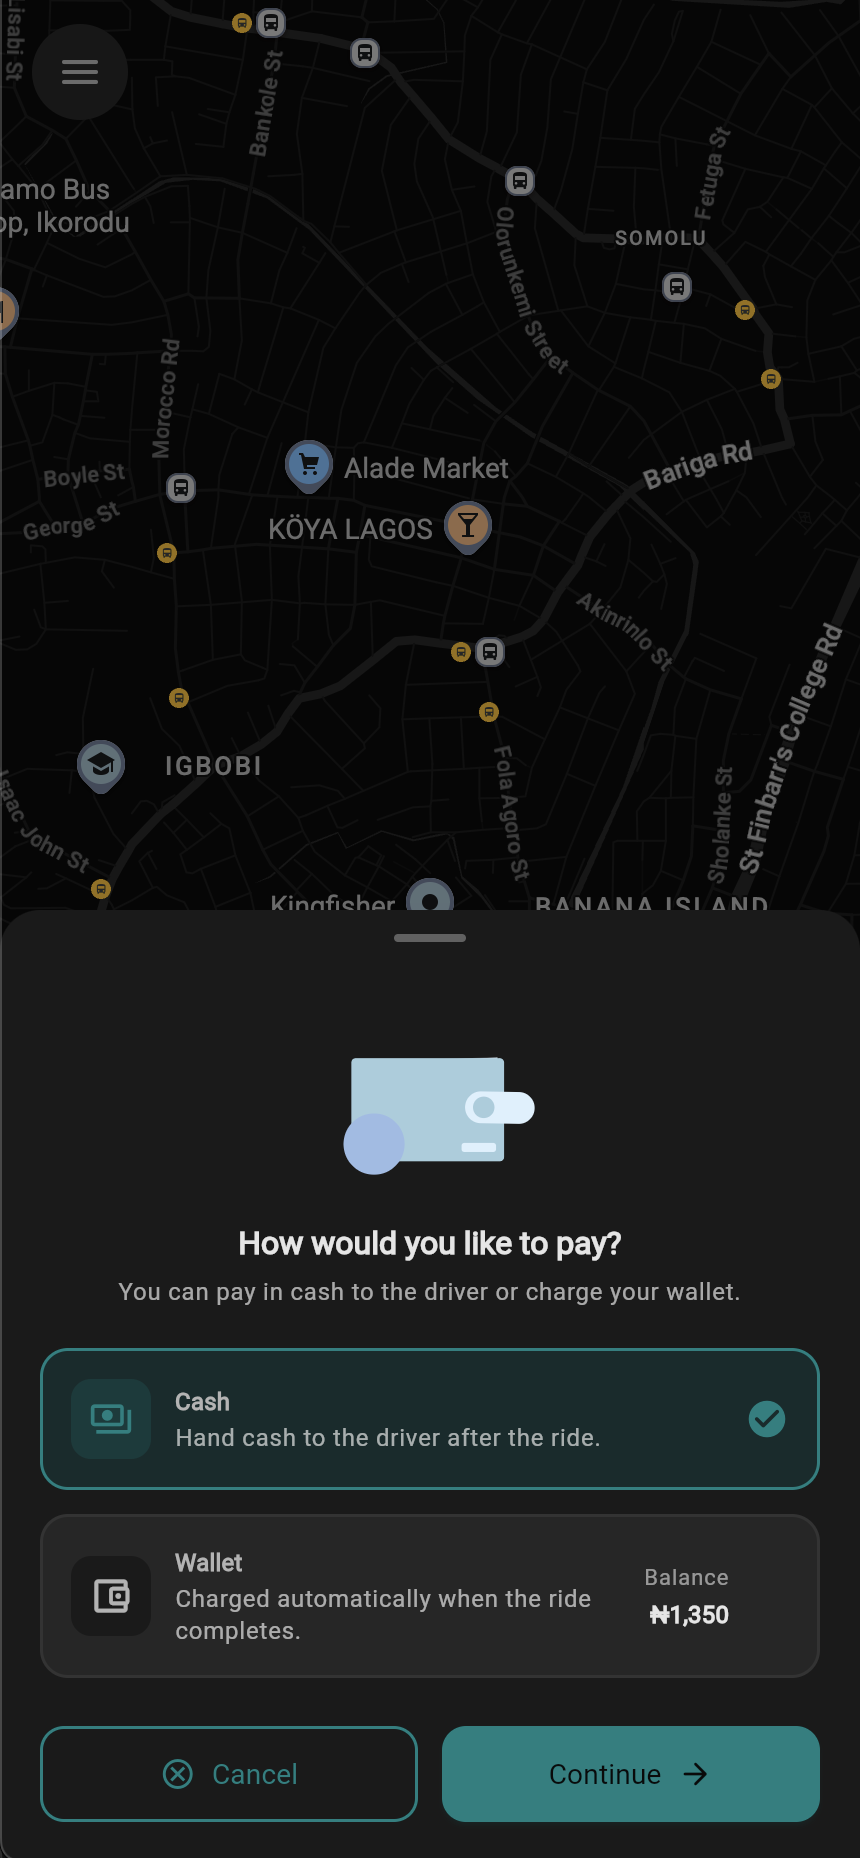
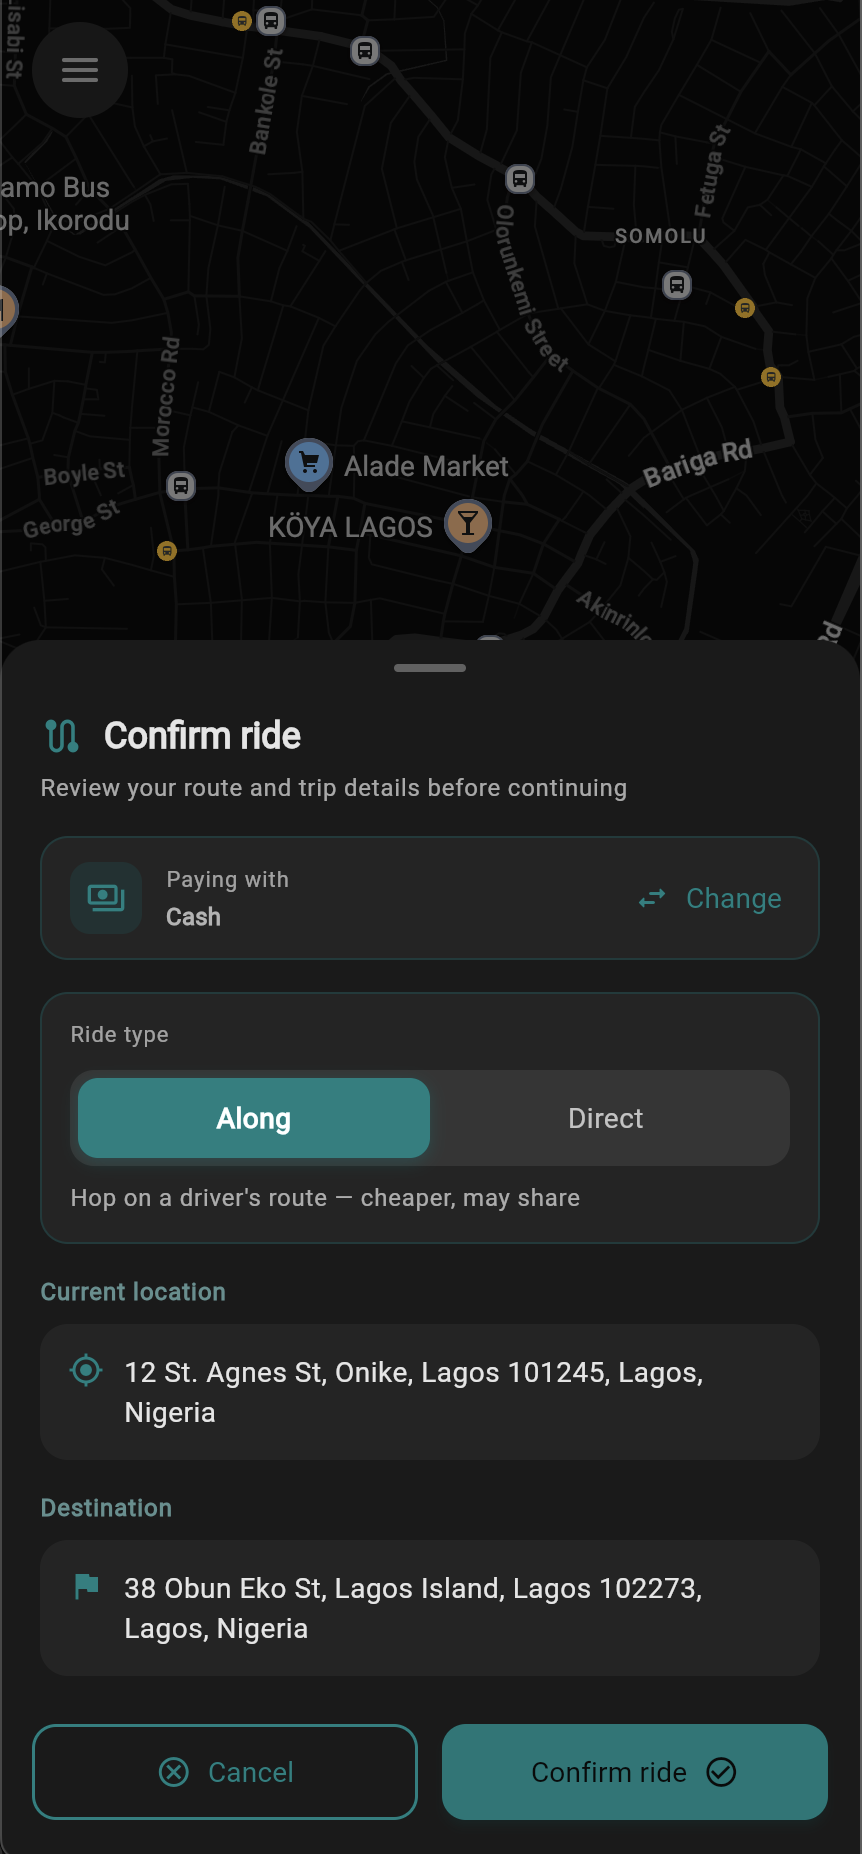
feat(pitch): honest competitive matrix + designed personas + dot-rail nav
Competitive matrix — rebuilt for truth
- Old matrix overstated TagRides differentiation by mis-grading
  competitors. Fixed every cell against current Lagos reality:
    • Uber / Bolt now correctly read 'high' on Comfort + Safety and
      gain instant-matching credit; lose the (vague) "Inclusive" row.
    • InDrive now correctly reads 'yes' on Instant matching and 'high'
      on Comfort — they earn it.
    • Shuttlers now reads 'yes' on Drivers-heading-your-way (their
      scheduled routes literally satisfy that capability) and 'high'
      on Comfort.
    • Danfo keeps the share + route + negotiable trio honestly.
- Rebuilt the 6 rows around capabilities that are actually falsifiable:
    1. Pay only for your leg of the trip
    2. Drivers already heading your destination
    3. Negotiable fare
    4. Instant in-app matching
    5. Comfort
    6. Verified driver + trip log
- The story now sells itself: TagRides 6/6, every competitor ≤4/6.
- Differentiation row expanded from 3 → 4 quotes (Uber/Bolt, InDrive,
  Shuttlers, Danfo) so each named competitor gets a direct rebuttal.

Persona illustrations
- New PersonaIllustration component renders Fatima + Emeka as designed
  SVG composites — head + shoulders + role hint (briefcase + Lagos
  skyline for Fatima; steering wheel + windshield + dashboard for
  Emeka). Honest signal: 'persona archetype', not fake real customer.
- Replaces the gradient img fallback inside the existing diamond crops
[…]

diff --git a/src/components/pitch/PersonaIllustration.jsx b/src/components/pitch/PersonaIllustration.jsx
@@ -1,0 +1,241 @@
+'use client';
+
+// PersonaIllustration — designed SVG illustrations for the Problem
+// section. Two variants: 'rider' (Fatima) and 'driver' (Emeka). These
+// are intentionally abstract: composites, not photographs. Reads as
+// "persona archetype" without pretending to be a real customer.
+//
+// Each illustration packs:
+//   • a stylized portrait silhouette (head + shoulders)
+//   • one role-specific visual hint (briefcase for rider, steering for driver)
+//   • a Lagos-evocative backdrop (curving line suggesting horizon + road)
+//   • a brand-tinted gradient (primary teal for rider, accent amber for driver)
+//
+// Designed to live inside the Problem section's diamond-cropped frames
+// (rotated 45° container, illustration -45° to upright). The viewBox is
+// square (100×100) so the rotation math stays clean.
+
+export function PersonaIllustration({ kind = 'rider', className }) {
+  if (kind === 'driver') return <DriverIllustration className={className} />;
+  return <RiderIllustration className={className} />;
+}
+
+function RiderIllustration({ className }) {
+  return (
+    <svg viewBox="0 0 100 100" className={className} aria-hidden="true">
+      <defs>
+        <linearGradient id="rider-bg" x1="0" y1="0" x2="1" y2="1">
+          <stop offset="0%"   stopColor="#0E5C5C" />
+          <stop offset="60%"  stopColor="#0A3F3F" />
+          <stop offset="100%" stopColor="#062828" />
+        </linearGradient>
+        <linearGradient id="rider-figure" x1="0.5" y1="0" x2="0.5" y2="1">
+          <stop offset="0%"   stopColor="#1A1A1A" />
+          <stop offset="100%" stopColor="#0A0A0A" />
+        </linearGradient>
+        <linearGradient id="rider-accent" x1="0" y1="0" x2="0" y2="1">
+          <stop offset="0%"   stopColor="rgba(245,158,11,0.0)" />
+          <stop offset="100%" stopColor="rgba(245,158,11,0.6)" />
+        </linearGradient>
+      </defs>
+
+      {/* Backdrop */}
+      <rect width="100" height="100" fill="url(#rider-bg)" />
+
+      {/* Lagos horizon — three building silhouettes at the back */}
+      <g opacity="0.35">
+        <rect x="8"  y="42" width="14" height="36" fill="#062828" />
+        <rect x="24" y="34" width="10" height="44" fill="#062828" />
+        <rect x="36" y="48" width="8"  height="30" fill="#062828" />
+        <rect x="60" y="38" width="12" height="40" fill="#062828" />
+        <rect x="74" y="46" width="10" height="32" fill="#062828" />
+        <rect x="86" y="40" width="8"  height="38" fill="#062828" />
+        {/* window dots */}
+        <g fill="rgba(245,158,11,0.5)">
+          <rect x="12" y="50" width="1.6" height="1.6" />
+          <rect x="16" y="50" width="1.6" height="1.6" />
+          <rect x="12" y="58" width="1.6" height="1.6" />
+          <rect x="16" y="58" width="1.6" height="1.6" />
+          <rect x="26" y="44" width="1.6" height="1.6" />
+          <rect x="30" y="44" width="1.6" height="1.6" />
+          <rect x="26" y="56" width="1.6" height="1.6" />
+          <rect x="63" y="50" width="1.6" height="1.6" />
+          <rect x="67" y="50" width="1.6" height="1.6" />
+          <rect x="63" y="60" width="1.6" height="1.6" />
+          <rect x="77" y="52" width="1.6" height="1.6" />
+          <rect x="89" y="48" width="1.6" height="1.6" />
+        </g>
+      </g>
+
+      {/* Soft amber sunset hint along the horizon */}
+      <rect x="0" y="55" width="100" height="30" fill="url(#rider-accent)" opacity="0.5" />
+
+      {/* Figure — head + shoulders. Slight 3/4 turn. */}
+      <g>
+        {/* Shoulders / suit blazer */}
+        <path
+          d="M 18 100 L 18 86 Q 22 76 32 73 L 50 70 L 68 73 Q 78 76 82 86 L 82 100 Z"
+          fill="url(#rider-figure)"
+        />
+        {/* Suit lapel highlight */}
+        <path
+          d="M 42 100 L 47 78 L 50 74 L 53 78 L 58 100 Z"
+          fill="#1F1F1F"
+          opacity="0.8"
+        />
+        {/* Collar */}
+        <path
+          d="M 44 100 L 48 80 L 50 78 L 52 80 L 56 100 Z"
+          fill="#E5E5E5"
+          opacity="0.85"
+        />
+        {/* Neck */}
+        <rect x="46" y="68" width="8" height="6" fill="#3B2A20" />
+        {/* Head silhouette — slight oval, framed by hair */}
+        <ellipse cx="50" cy="58" rx="11" ry="12.5" fill="#3B2A20" />
+        {/* Hair — wrapped/styled around head, suggests cultural framing */}
+        <path
+          d="M 38 58 Q 36 46 44 42 Q 50 38 56 42 Q 64 46 62 58 Q 64 55 64 50 Q 62 38 50 36 Q 38 38 36 50 Q 36 55 38 58 Z"
+          fill="#1A1410"
+        />
+        {/* Subtle face plane shadow */}
+        <path
+          d="M 50 58 Q 45 58 43 64 Q 45 68 50 68 Z"
+          fill="#2D1F18"
+          opacity="0.6"
+        />
+        {/* Earring glint */}
+        <circle cx="59" cy="60" r="0.8" fill="#F0B429" />
+      </g>
+
+      {/* Phone in hand — minimal silhouette in lower-right */}
+      <g transform="translate(70, 88) rotate(-10)">
+        <rect x="0" y="0" width="6" height="9" rx="1" fill="#1A1A1A" stroke="#008080" strokeWidth="0.4" />
+        <rect x="1" y="1.4" width="4" height="6" fill="#008080" opacity="0.5" />
+      </g>
+
+      {/* Corner accent — diamond glyph echoing deck language */}
+      <rect x="6" y="6" width="3" height="3" fill="#F59E0B" transform="rotate(45 7.5 7.5)" opacity="0.8" />
+    </svg>
+  );
+}
+
+function DriverIllustration({ className }) {
+  return (
+    <svg viewBox="0 0 100 100" className={className} aria-hidden="true">
+      <defs>
+        <linearGradient id="driver-bg" x1="0" y1="0" x2="1" y2="1">
+          <stop offset="0%"   stopColor="#5C3A0A" />
+          <stop offset="60%"  stopColor="#3F2806" />
+          <stop offset="100%" stopColor="#281904" />
+        </linearGradient>
+        <linearGradient id="driver-figure" x1="0.5" y1="0" x2="0.5" y2="1">
+          <stop offset="0%"   stopColor="#1A1A1A" />
+          <stop offset="100%" stopColor="#0A0A0A" />
+        </linearGradient>
+        <linearGradient id="driver-windshield" x1="0" y1="0" x2="0" y2="1">
+          <stop offset="0%"   stopColor="rgba(0,128,128,0.45)" />
+          <stop offset="100%" stopColor="rgba(0,128,128,0.05)" />
+        </linearGradient>
+      </defs>
+
+      {/* Backdrop */}
+      <rect width="100" height="100" fill="url(#driver-bg)" />
+
+      {/* Windshield curve — top edge, suggesting driver's view */}
+      <path
+        d="M 0 24 Q 50 12 100 24 L 100 0 L 0 0 Z"
+        fill="#0A0A0A"
+        opacity="0.5"
+      />
+      <path
+        d="M 0 24 Q 50 12 100 24 L 100 60 Q 50 50 0 60 Z"
+        fill="url(#driver-windshield)"
+      />
+
+      {/* Distant road dots — pinpoints of light through windshield */}
+      <g fill="#F0B429" opacity="0.7">
+        <circle cx="22" cy="32" r="0.8" />
+        <circle cx="34" cy="28" r="0.6" />
+        <circle cx="46" cy="26" r="0.7" />
+        <circle cx="58" cy="27" r="0.5" />
+        <circle cx="68" cy="30" r="0.7" />
+        <circle cx="78" cy="33" r="0.6" />
+      </g>
+
+      {/* Dashboard line */}
+      <path
+        d="M 0 62 Q 50 55 100 62 L 100 70 Q 50 64 0 70 Z"
+        fill="#1A1A1A"
+      />
+
+      {/* Steering wheel — curved arc in lower-front */}
+      <g transform="translate(50, 88)">
+        <path
+          d="M -22 0 Q -22 -14 0 -14 Q 22 -14 22 0"
+          fill="none"
+          stroke="#0A0A0A"
+          strokeWidth="3.5"
+        />
+        <path
+          d="M -22 0 Q -22 -14 0 -14 Q 22 -14 22 0"
+          fill="none"
+          stroke="#262626"
+          strokeWidth="1.6"
+        />
+        {/* Center boss */}
+        <ellipse cx="0" cy="-5" rx="3.5" ry="2.4" fill="#262626" />
+      </g>
+
+      {/* Figure — head + shoulders, framed by windshield */}
+      <g>
+        {/* Shoulders — t-shirt collar */}
+        <path
+          d="M 22 100 L 22 76 Q 28 68 38 66 L 50 64 L 62 66 Q 72 68 78 76 L 78 100 Z"
+          fill="url(#driver-figure)"
+        />
+        {/* T-shirt collar V */}
+        <path
+          d="M 45 100 L 48 72 L 50 70 L 52 72 L 55 100 Z"
+          fill="#262626"
+          opacity="0.7"
+        />
+        {/* Seatbelt strap */}
+        <path
+          d="M 30 100 L 60 65 L 64 66 L 34 100 Z"
+          fill="#3F2806"
+          opacity="0.9"
+        />
+        <path
+          d="M 30 100 L 60 65 L 64 66 L 34 100 Z"
+          fill="none"
+          stroke="#F0B429"
+          strokeWidth="0.5"
+          opacity="0.6"
+        />
+        {/* Neck */}
+        <rect x="46" y="60" width="8" height="6" fill="#3B2A20" />
+        {/* Head */}
+        <ellipse cx="50" cy="50" rx="11" ry="12.5" fill="#3B2A20" />
+        {/* Short hair / cap line */}
+        <path
+          d="M 39 50 Q 39 38 50 36 Q 61 38 61 50 Q 61 44 56 40 Q 50 38 44 40 Q 39 44 39 50 Z"
+          fill="#1A1410"
+        />
+        {/* Face plane shadow */}
+        <path
+          d="M 50 50 Q 45 50 43 56 Q 45 60 50 60 Z"
+          fill="#2D1F18"
+          opacity="0.5"
+        />
+        {/* Eye glint — sunglasses */}
+        <ellipse cx="45" cy="48" rx="2.2" ry="1.4" fill="#0A0A0A" />
+        <ellipse cx="55" cy="48" rx="2.2" ry="1.4" fill="#0A0A0A" />
+        <rect x="47" y="47.5" width="1.5" height="0.8" fill="#0A0A0A" />
+      </g>
+
+      {/* Corner accent */}
+      <rect x="91" y="6" width="3" height="3" fill="#008080" transform="rotate(45 92.5 7.5)" opacity="0.8" />
+    </svg>
+  );
+}

diff --git a/src/components/pitch/PitchShell.jsx b/src/components/pitch/PitchShell.jsx
@@ -231,6 +231,16 @@ export function PitchShell({
         {children}
       </main>
 
+      {/* Right-edge section dot-rail. Desktop-only. Hides in present
+          mode (the bottom bar covers nav already) and in print. */}
+      {!presentMode && (
+        <SectionDotRail
+          sectionKeys={sectionKeys}
+          currentSlide={currentSlide}
+          onJump={goToSlide}
+        />
+      )}
+
       {/* Present-mode overlay UI */}
       <AnimatePresence>
         {presentMode && (
@@ -328,4 +338,76 @@ function sectionIdFor(key) {
     appCTA:          'app',
   };
   return aliases[key] ?? key;
+}
+
+// Short navigator labels per section key. Kept terse so the right-edge
+// tooltips read at a glance.
+const NAV_LABELS = {
+  cover: 'Cover',
+  problem: 'Problem',
+  problemPersonal: 'Why',
+  lagosCost: 'Cost',
+  solution: 'Solution',
+  product: 'Product',
+  market: 'Market',
+  model: 'Model',
+  gtm: 'GTM',
+  competitive: 'Competition',
+  traction: 'Traction',
+  team: 'Team',
+  financials: 'Financials',
+  milestones: 'Milestones',
+  impact: 'Impact',
+  ask: 'Ask',
+  howItWorks: 'How',
+  modes: 'Modes',
+  safety: 'Safety',
+  pricingFair: 'Pricing',
+  appCTA: 'Join',
+};
+
+// Right-edge dot rail. Pure-CSS hover reveals the section label as a
+// pill that slides in from the right. The active dot is filled teal +
+// scaled; idle dots are border-only and muted. Click anywhere on a dot
+// scrolls to that section.
+function SectionDotRail({ sectionKeys, currentSlide, onJump }) {
+  return (
+    <nav
+      aria-label="Section navigator"
+      className="pitch-chrome pointer-events-none fixed top-1/2 right-4 z-40 hidden -translate-y-1/2 lg:block"
+    >
+      <ul className="flex flex-col items-end gap-2.5">
+        {sectionKeys.map((key, i) => {
+          const active = i === currentSlide;
+          const label = NAV_LABELS[key] ?? key;
+          return (
+            <li key={key} className="pointer-events-auto group flex items-center gap-3">
+              {/* Label pill — slides in from the right on hover */}
+              <span
+                className={cn(
+                  'origin-right rounded-full bg-elevated/95 px-3 py-1 font-mono text-xs font-semibold text-foreground opacity-0 ring-1 ring-border/40 backdrop-blur transition duration-200',
+                  'translate-x-2 group-hover:translate-x-0 group-hover:opacity-100',
+                  active && 'opacity-100 translate-x-0 text-primary',
+                )}
+              >
+                {label}
+              </span>
+              <button
+                type="button"
+                onClick={() => onJump(i)}
+                aria-label={`Jump to ${label}`}
+                aria-current={active ? 'true' : undefined}
+                className={cn(
+                  'flex size-3 items-center justify-center rounded-full transition-all duration-300',
+                  active
+                    ? 'bg-primary ring-2 ring-primary/30 ring-offset-2 ring-offset-background scale-110'
+                    : 'bg-foreground/20 hover:bg-foreground/60 hover:scale-110',
+                )}
+              />
+            </li>
+          );
+        })}
+      </ul>
+    </nav>
+  );
 }

diff --git a/src/components/pitch/sections/Problem.jsx b/src/components/pitch/sections/Problem.jsx
@@ -3,6 +3,7 @@
 import { motion } from 'motion/react';
 
 import { PitchSection, SectionHeading } from '../motion/Section';
+import { PersonaIllustration } from '../PersonaIllustration';
 import pitch from '@/data/pitch.json';
 
 // Problem — Fatima (rider) + Emeka (driver). Two-sided pain, presented
@@ -41,25 +42,19 @@ function PersonaCard({ persona, index }) {
       />
 
       <div className="flex flex-col items-start gap-6 sm:flex-row sm:items-center">
-        {/* Diamond-cropped photo. Use rotation + overflow:hidden on a
-            square parent. We rotate the inner image back to upright. */}
+        {/* Diamond-framed persona illustration. Outer rotated 45° to
+            make a diamond, inner illustration rotated back upright and
+            scaled to fill so the diamond crops nicely.  These are
+            designed composites, not photos — honest representation of
+            a persona archetype, not a fake real customer. */}
         <div className="shrink-0">
           <div className="relative size-28 rotate-45 overflow-hidden rounded-2xl ring-2 ring-border/60 md:size-32">
-            {/* eslint-disable-next-line @next/next/no-img-element */}
-            <img
-              src={persona.image}
-              alt={persona.name}
-              className="size-full -rotate-45 scale-150 object-cover"
-              onError={(e) => {
-                // Graceful fallback: gradient placeholder if asset missing
-                e.currentTarget.style.display = 'none';
-              }}
-            />
-            <div
-              className={accent === 'primary'
-                ? 'absolute inset-0 -z-10 -rotate-45 scale-150 bg-gradient-to-br from-primary/40 to-primary/10'
-                : 'absolute inset-0 -z-10 -rotate-45 scale-150 bg-gradient-to-br from-accent/40 to-accent/10'}
-            />
+            <div className="absolute inset-0 -rotate-45 scale-150">
+              <PersonaIllustration
+                kind={index === 0 ? 'rider' : 'driver'}
+                className="size-full"
+              />
+            </div>
           </div>
         </div>
 

diff --git a/src/components/pitch/sections/Competitive.jsx b/src/components/pitch/sections/Competitive.jsx
@@ -72,7 +72,7 @@ export function Competitive() {
       </div>
 
       {/* Differentiators */}
-      <div className="mt-16 grid gap-4 md:mt-20 md:grid-cols-3 md:gap-6">
+      <div className="mt-16 grid gap-4 md:mt-20 md:grid-cols-2 md:gap-6">
         {data.differentiation.map((d, i) => (
           <motion.blockquote
             key={d.vs}